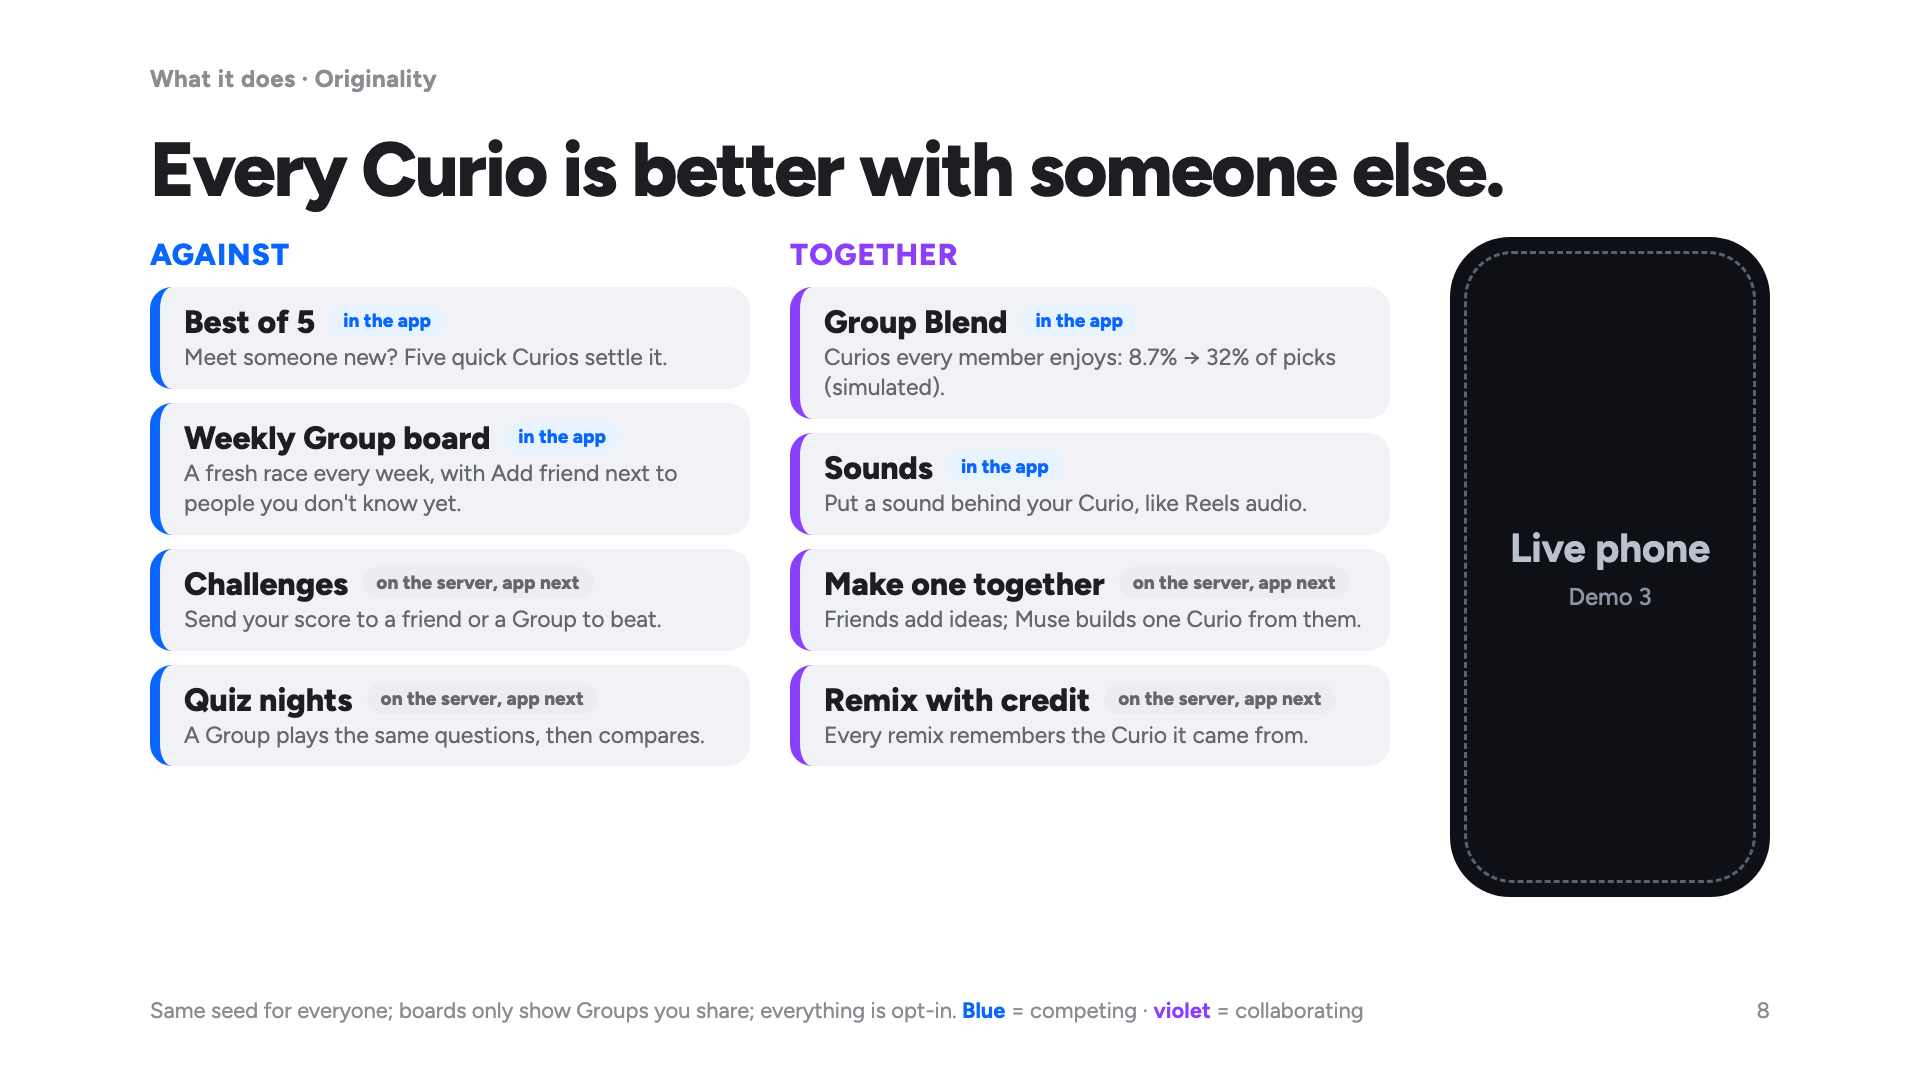
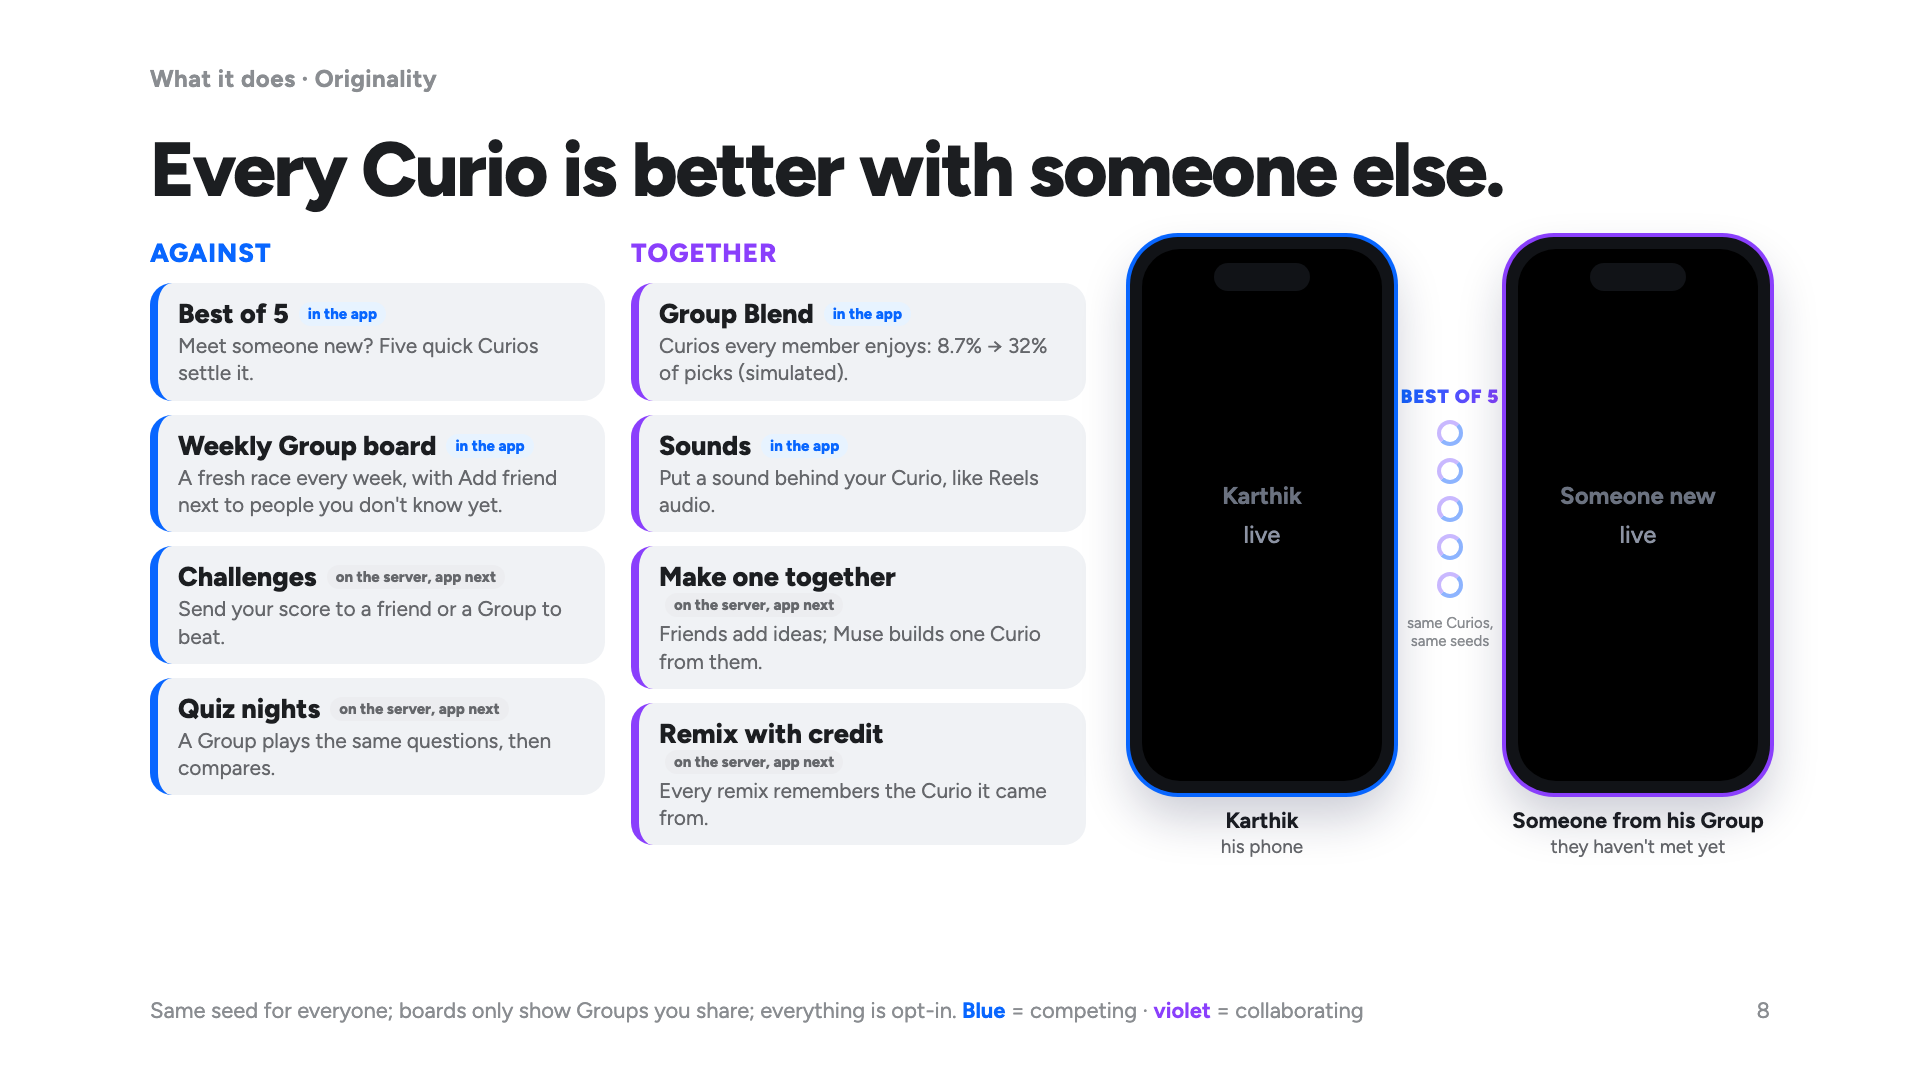
Slides 4 and 8: frames for real NYT and Krillion gameplay; two iPhones around a best of 5 between people who haven't met

diff --git a/docs/pr/slides/deck.html b/docs/pr/slides/deck.html
@@ -400,6 +400,39 @@ h2 { font-size: 96px; line-height: 1.04; font-weight: 800; letter-spacing: -.025
 .spon .sc { padding: 32px 36px; } .spon .sc p { font-size: 27px; margin-top: 18px; } .spon .sc em { font-size: 26px; } .spon .sc p.sev { font-size: 21px; }
 .sph { margin: 0; flex: none; width: 330px; } .sph img { width: 330px; height: 640px; object-fit: cover; object-position: top; border-radius: 34px; display: block; box-shadow: 0 24px 48px rgba(16,24,64,.18); }
 .sph figcaption { font-size: 22px; font-weight: 700; margin-top: 12px; }
+
+/* slide 4: four real game frames */
+.ind { display: grid !important; grid-template-columns: 600px 1fr !important; gap: 70px !important; margin-top: 40px !important; }
+.ind .lcol { display: flex; flex-direction: column; gap: 34px; }
+.ind svg { width: 420px !important; height: 243px !important; }
+.li2 b { font-size: 36px; margin-top: 10px; } .li2 p { font-size: 26px; margin-top: 12px; } .li2 em { font-size: 24px; }
+.nyc .ccap { font-size: 26px; } .nyc .nyp { font-size: 23px; margin-top: 6px; }
+.strip4 { display: flex; gap: 16px; } .strip4 figure { margin: 0; }
+.strip4 .frame.ny3 { width: 206px; height: 446px; border-radius: 22px; border: none; background: #DADDE3; font-size: 20px; }
+.strip4 figcaption { font-size: 22px; font-weight: 800; margin-top: 10px; color: var(--ink); }
+.strip4 .kr { margin-left: 22px; } .strip4 .kr .frame { background: var(--violet); }
+.cr2 { display: flex; justify-content: space-between; gap: 20px; margin-top: 12px; font-size: 20px; color: var(--muted); }
+.cr2 .krc { width: 250px; color: var(--sub); line-height: 1.3; } .cr2 .krc b { color: var(--violet); }
+
+/* slide 8: a real iPhone shape around the live feed */
+.collab .ccr .iph { background: #111317; border-radius: 58px; padding: 14px; box-shadow: 0 0 0 3px #2B2F37, 0 30px 60px rgba(16,24,64,.25); position: relative; }
+.collab .ccr .iph .scr { border: none; background: #000; border-radius: 44px; position: relative; color: #6B7280; font-size: 30px; }
+.collab .ccr .iph .di { position: absolute; top: 14px; left: 50%; transform: translateX(-50%); width: 96px; height: 28px; border-radius: 14px; background: #111317; }
+.lpcap { font-size: 22px; font-weight: 700; text-align: center; margin-top: 14px; color: var(--sub); }
+
+/* slide 8: two phones, one best of 5 */
+.collab .crow { gap: 44px; } .collab .cgrid { column-gap: 26px; }
+.collab .cf { padding: 14px 20px; border-left-width: 8px; } .collab .cf b { font-size: 27px; } .collab .cf p { font-size: 21px; } .collab .ch { font-size: 26px; }
+.collab .cf .chip { font-size: 15px; padding: 3px 9px; margin-left: 6px; vertical-align: 4px; }
+.duo { display: flex; align-items: flex-start; gap: 0; flex: none; }
+.duo .pp { margin: 0; width: 264px; } .duo .lp.iph { width: 264px !important; height: 556px !important; padding: 12px !important; border-radius: 48px !important; }
+.duo .iph .scr { border-radius: 38px !important; font-size: 24px !important; } .duo .iph .di { width: 76px; height: 22px; top: 12px; }
+.duo .pp.a .iph { box-shadow: 0 0 0 4px var(--blue), 0 24px 48px rgba(16,24,64,.22); } .duo .pp.b .iph { box-shadow: 0 0 0 4px var(--violet), 0 24px 48px rgba(16,24,64,.22); }
+.duo figcaption { text-align: center; font-size: 19px; color: var(--sub); margin-top: 14px; line-height: 1.25; } .duo figcaption b { display: block; font-size: 22px; color: var(--ink); }
+.bo5 { width: 112px; display: flex; flex-direction: column; align-items: center; gap: 12px; padding-top: 150px; }
+.bo5 em { font-style: normal; font-size: 19px; font-weight: 900; text-transform: uppercase; letter-spacing: .04em; text-align: center; line-height: 1.1; background: var(--grad); -webkit-background-clip: text; color: transparent; }
+.bo5 .r { width: 26px; height: 26px; border-radius: 50%; border: 4px solid; border-image: none; border-color: #C9B8FF #8DB4FF #8DB4FF #C9B8FF; }
+.bo5 i { font-style: normal; font-size: 15px; color: var(--muted); text-align: center; line-height: 1.2; margin-top: 4px; }
 </style>
 </head>
 <body>
@@ -462,7 +495,7 @@ h2 { font-size: 96px; line-height: 1.04; font-weight: 800; letter-spacing: -.025
   <div class="label">The problem</div>
   <h2 style="margin-top:10px;font-size:80px">At work, play became the icebreaker.</h2>
   <div class="ind">
-    <div class="li2"><em>LinkedIn</em><b>Daily puzzles that rank you against your connections, colleagues and alumni.</b><p>A conversation starter at work. 86% of players come back the next day <span>(company-reported)</span>.</p></div>
+    <div class="lcol"><div class="li2"><em>LinkedIn</em><b>Daily puzzles that rank you against your connections, colleagues and alumni.</b><p>A conversation starter at work. 86% of players come back the next day <span>(company-reported)</span>.</p></div>
     <div class="nyc"><svg viewBox="0 0 760 440" width="560" height="324">
         <line x1="70" y1="380" x2="730" y2="380" stroke="#E4E6EB" stroke-width="4"/>
         <polyline points="130,266 330,152 730,59" fill="none" stroke="#0866FF" stroke-width="10" stroke-linecap="round" stroke-linejoin="round"/>
@@ -473,10 +506,15 @@ h2 { font-size: 96px; line-height: 1.04; font-weight: 800; letter-spacing: -.025
         <text x="130" y="420" text-anchor="middle" font-size="26" font-family="Figtree" fill="#65676B">2022</text>
         <text x="330" y="420" text-anchor="middle" font-size="26" font-family="Figtree" fill="#65676B">2023</text>
         <text x="730" y="420" text-anchor="middle" font-size="26" font-family="Figtree" fill="#65676B">2025</text>
-      </svg><div class="ccap">NYT Games: puzzles solved per year</div><p class="nyp">46 Wordle scores shared every second. In 2025, a friends-only leaderboard.</p></div>
-    <div class="nys"><div class="strip3"><div class="frame ny3" id="nyt1"><span>Wordle</span></div><div class="frame ny3" id="nyt2"><span>Connections</span></div><div class="frame ny3" id="nyt3"><span>Mini: add friends</span></div></div><div class="cr">© The New York Times</div></div>
+      </svg><div class="ccap">NYT Games: puzzles solved per year</div><p class="nyp">46 Wordle scores shared every second; in 2025, a friends-only leaderboard.</p></div></div>
+    <div class="nys"><div class="strip4">
+      <figure><div class="frame ny3" id="nyt1"><span>Wordle</span></div><figcaption>Wordle</figcaption></figure>
+      <figure><div class="frame ny3" id="nyt2"><span>Connections</span></div><figcaption>Connections</figcaption></figure>
+      <figure><div class="frame ny3" id="nyt3"><span>Strands</span></div><figcaption>Strands</figcaption></figure>
+      <figure class="kr"><div class="frame ny3" id="krl"><span>Krillion</span></div><figcaption>Krillion</figcaption></figure>
+    </div><div class="cr2"><span>© The New York Times</span><span class="krc">One creator, since July 2026: <b>the rarest right answer wins</b></span></div></div>
   </div>
-  <div class="foot"><span>LinkedIn Newsroom 2026 [79]; TechCrunch 2024 [81]; Fortune 2024. NBC New York / TODAY 2025-12-29; AP 2026-01-21; NYT Help Center. Screenshots shown as cited reference.</span><span class="pg"></span></div>
+  <div class="foot"><span>LinkedIn [79]; TechCrunch [81]; NBC NY / TODAY 2025-12-29; AP 2026-01-21. Screenshots: NYT Games, krillion.io, 2026-11-13.</span><span class="pg"></span></div>
 </section>
 
 <section class="slide">
@@ -550,7 +588,11 @@ h2 { font-size: 96px; line-height: 1.04; font-weight: 800; letter-spacing: -.025
       <div class="ccol"><div class="cf c"><b>Best of 5</b> <span class="chip app">in the app</span><p>Meet someone new? Five quick Curios settle it.</p></div><div class="cf c"><b>Weekly Group board</b> <span class="chip app">in the app</span><p>A fresh race every week, with Add friend next to people you don't know yet.</p></div><div class="cf c"><b>Challenges</b> <span class="chip srv">on the server, app next</span><p>Send your score to a friend or a Group to beat.</p></div><div class="cf c"><b>Quiz nights</b> <span class="chip srv">on the server, app next</span><p>A Group plays the same questions, then compares.</p></div></div>
       <div class="ccol"><div class="cf v"><b>Group Blend</b> <span class="chip app">in the app</span><p>Curios every member enjoys: 8.7% → 32% of picks (simulated).</p></div><div class="cf v"><b>Sounds</b> <span class="chip app">in the app</span><p>Put a sound behind your Curio, like Reels audio.</p></div><div class="cf v"><b>Make one together</b> <span class="chip srv">on the server, app next</span><p>Friends add ideas; Muse builds one Curio from them.</p></div><div class="cf v"><b>Remix with credit</b> <span class="chip srv">on the server, app next</span><p>Every remix remembers the Curio it came from.</p></div></div>
     </div>
-    <div class="ccr"><div class="lp"><div class="scr">Live phone<br><small>Demo 3</small></div></div></div>
+    <div class="ccr duo">
+      <figure class="pp a"><div class="lp iph"><div class="scr" id="lpscr"><i class="di"></i>Karthik<br><small>live</small></div></div><figcaption><b>Karthik</b>his phone</figcaption></figure>
+      <div class="bo5"><em>Best of 5</em><span class="r"></span><span class="r"></span><span class="r"></span><span class="r"></span><span class="r"></span><i>same Curios, same seeds</i></div>
+      <figure class="pp b"><div class="lp iph"><div class="scr" id="lpscr2"><i class="di"></i>Someone new<br><small>live</small></div></div><figcaption><b>Someone from his Group</b>they haven't met yet</figcaption></figure>
+    </div>
   </div>
   <div class="foot"><span>Same seed for everyone; boards only show Groups you share; everything is opt-in. <b style="color:#0866FF">Blue</b> = competing · <b style="color:#8A3FFC">violet</b> = collaborating</span><span class="pg"></span></div>
 </section>
@@ -609,5 +651,5 @@ addEventListener('keydown', (e) => {
   location.hash = cur; show(cur - 1);
 });
 </script>
-</body>
+<script>if(location.hash.indexOf('rects')>=0){var o={};document.querySelectorAll('#nyt1,#nyt2,#nyt3,#krl,#reel1,#reel2,#reel3,#lpscr,#lpscr2').forEach(function(e){var r=e.getBoundingClientRect(),sr=e.closest('section').getBoundingClientRect();o[e.id]=[Math.round(r.left-sr.left),Math.round(r.top-sr.top),Math.round(r.width),Math.round(r.height)]});document.body.setAttribute('data-rects',JSON.stringify(o));}</script></body>
 </html>
